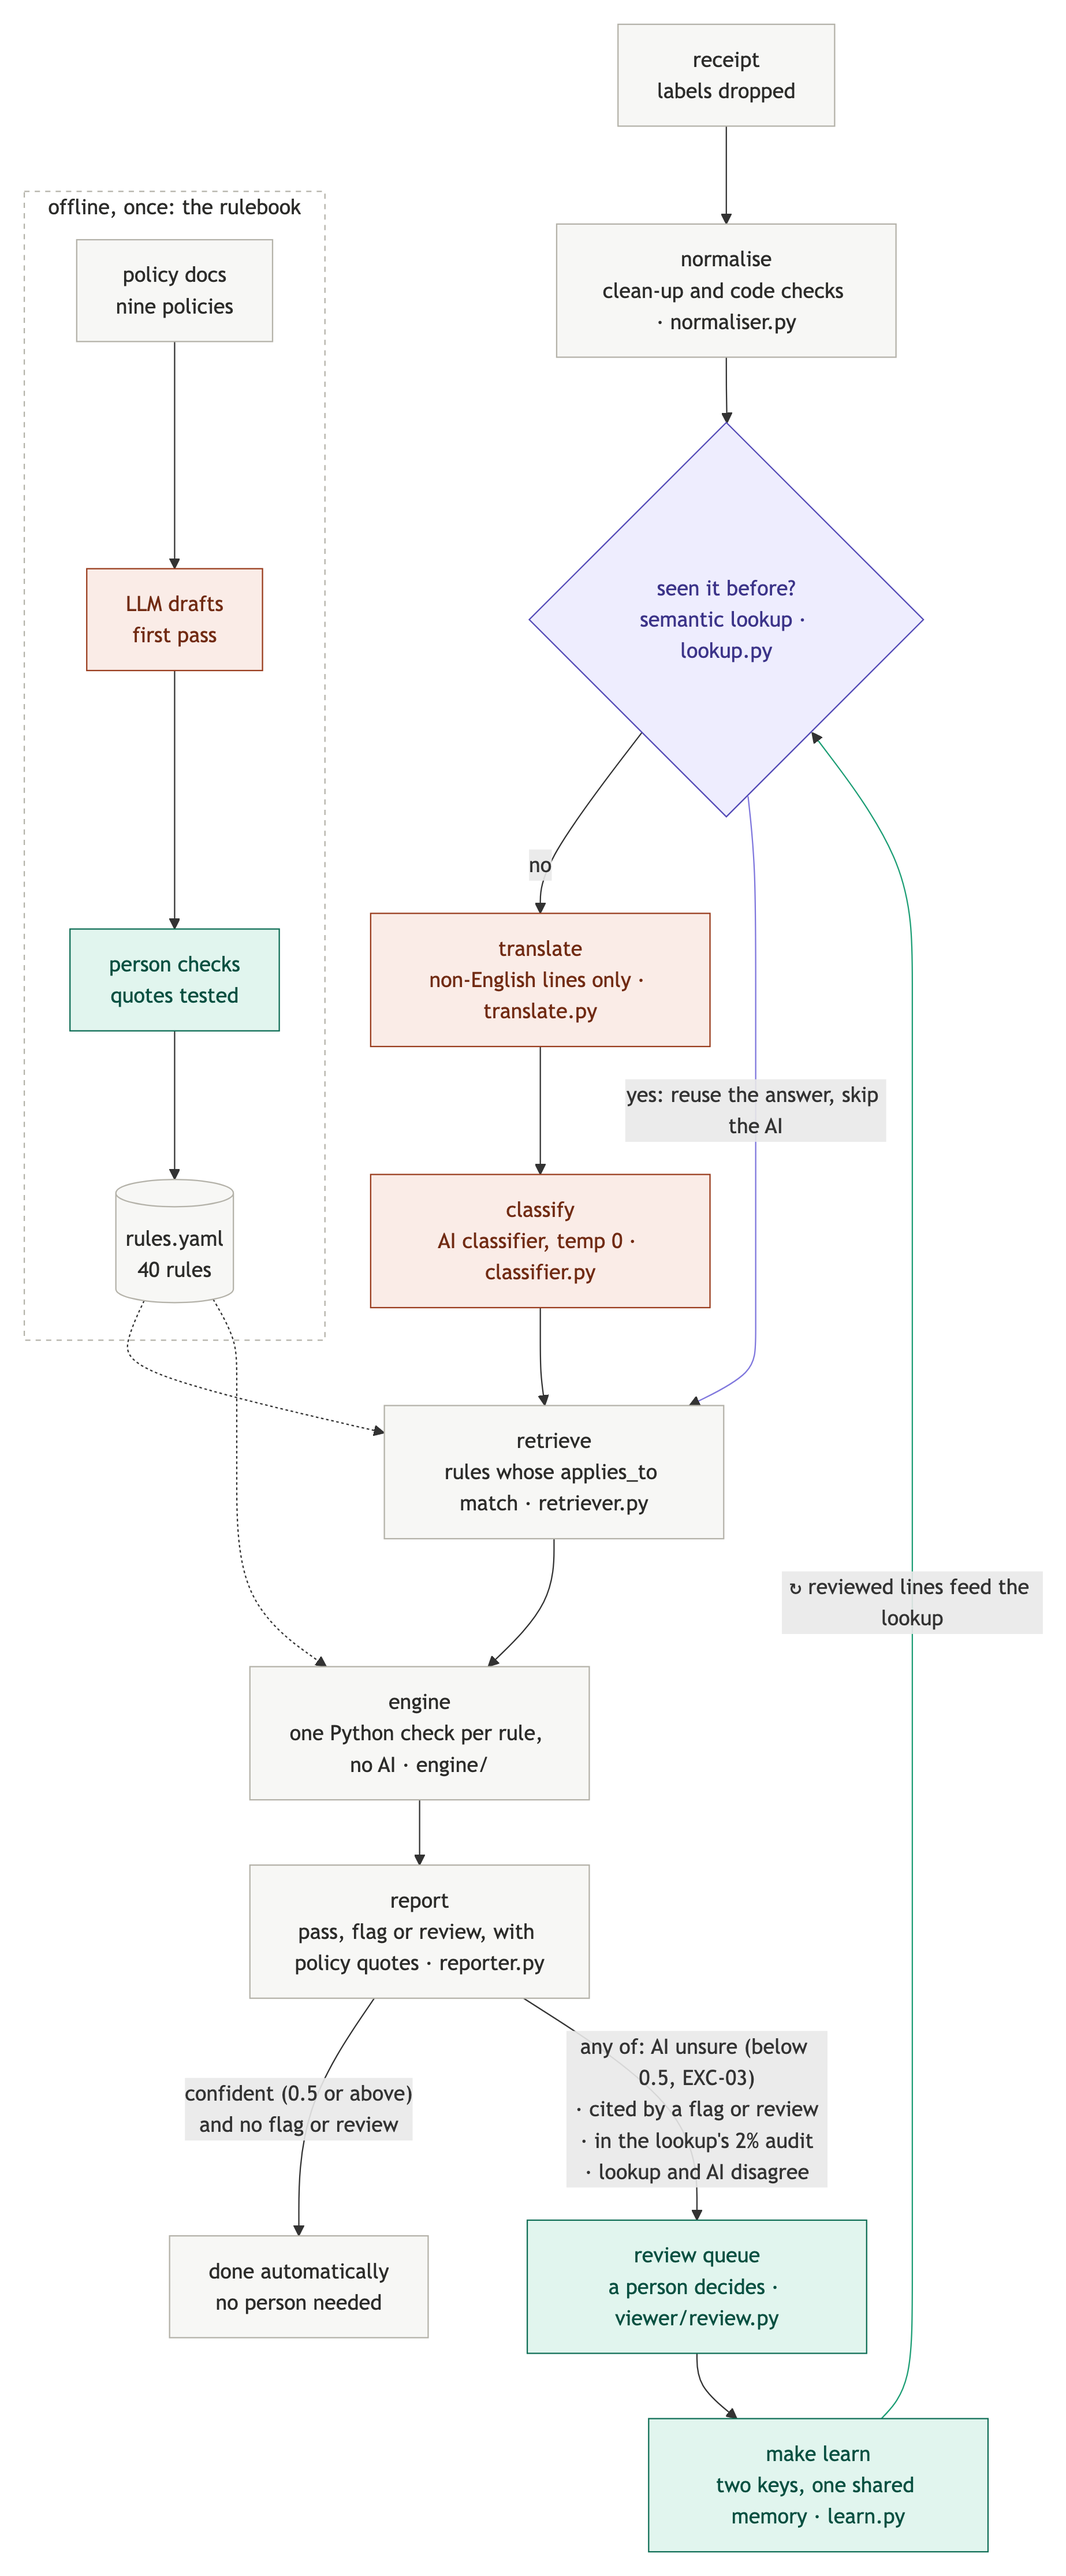
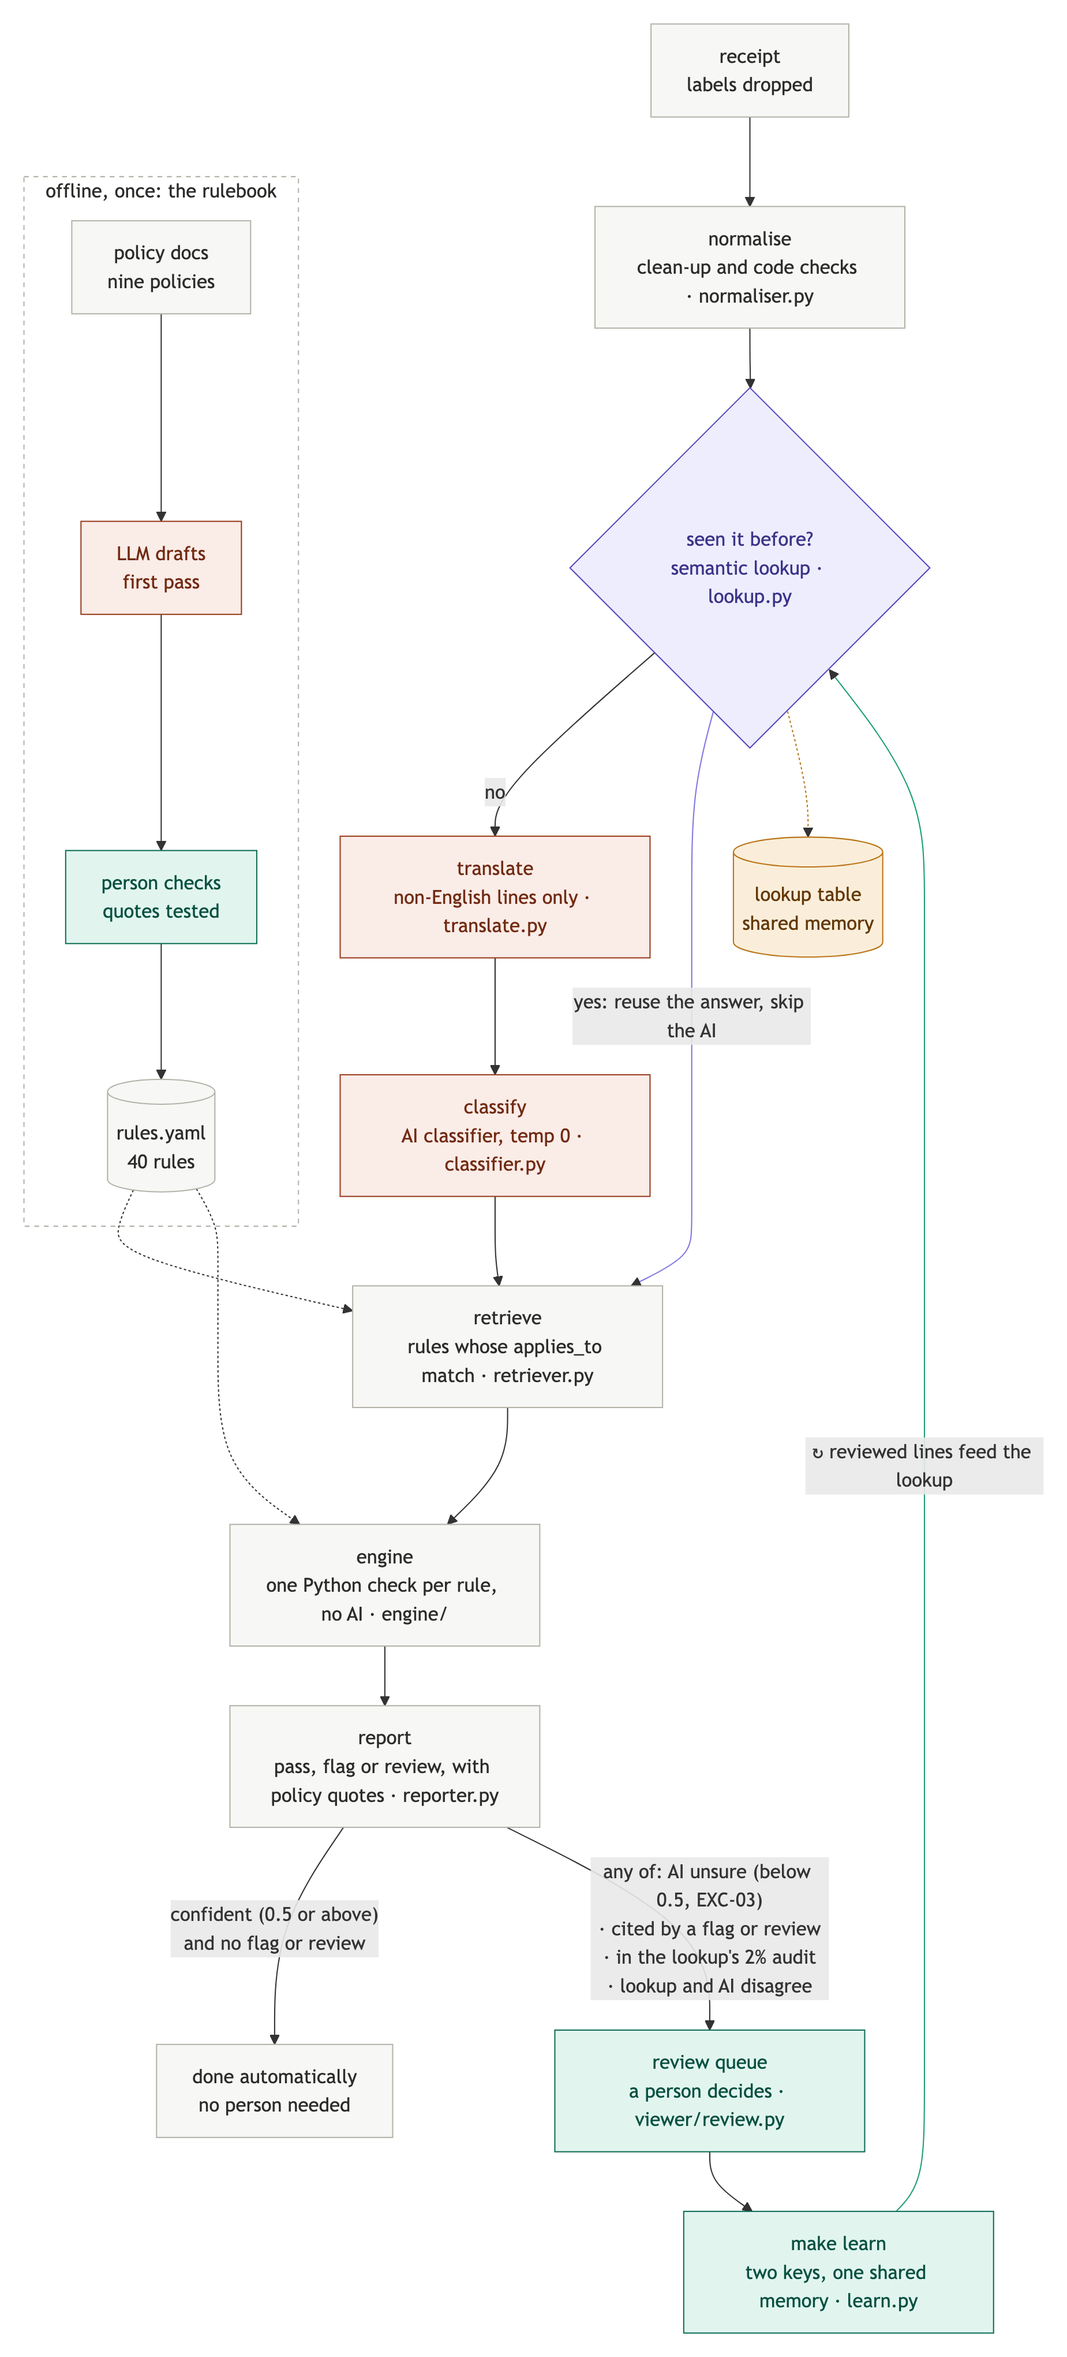
Show the lookup table beside the lookup in the architecture diagram
A small amber table icon, "Lookup table / shared memory", now sits right
of "Seen it before?", joined by a dotted line, so the lookup reads as a
table it consults. The same node is in the README's Mermaid diagram, and
both PNGs are rendered again.

diff --git a/docs/diagrams/architecture.html b/docs/diagrams/architecture.html
@@ -13,6 +13,17 @@
 <g><rect class="box" x="120" y="160" width="240" height="56" rx="8" stroke-width="0.5"/><text class="th" x="240" y="179" text-anchor="middle" dominant-baseline="central">Receipt</text><text class="ts" x="240" y="199" text-anchor="middle" dominant-baseline="central">Labels dropped</text></g>
 <g><rect class="box" x="120" y="246" width="240" height="56" rx="8" stroke-width="0.5"/><text class="th" x="240" y="265" text-anchor="middle" dominant-baseline="central">Normalise</text><text class="ts" x="240" y="285" text-anchor="middle" dominant-baseline="central">Clean-up and code checks</text></g>
 <g class="c-purple"><rect x="120" y="332" width="240" height="56" rx="8" stroke-width="0.5"/><text class="th" x="240" y="351" text-anchor="middle" dominant-baseline="central">Seen it before?</text><text class="ts" x="240" y="371" text-anchor="middle" dominant-baseline="central">Semantic lookup · lookup.py</text></g>
+<line x1="362" y1="360" x2="378" y2="360" stroke="#BA7517" stroke-width="1" stroke-dasharray="2 2"/>
+<g>
+  <rect x="380" y="343" width="42" height="34" rx="4" fill="#FAEEDA" stroke="#BA7517" stroke-width="1"/>
+  <rect x="380" y="343" width="42" height="10" rx="4" fill="#FAC775" stroke="#BA7517" stroke-width="1"/>
+  <rect x="380" y="349" width="42" height="4" fill="#FAC775"/>
+  <line x1="380" y1="364" x2="422" y2="364" stroke="#BA7517" stroke-width="0.75"/>
+  <line x1="380" y1="371" x2="422" y2="371" stroke="#BA7517" stroke-width="0.75"/>
+  <line x1="398" y1="353" x2="398" y2="377" stroke="#BA7517" stroke-width="0.75"/>
+  <text x="430" y="355" dominant-baseline="central" style="font-size:12px;font-weight:500;fill:#633806">Lookup table</text>
+  <text x="430" y="370" dominant-baseline="central" style="font-size:11px;fill:#854F0B">shared memory</text>
+</g>
 <g class="c-coral"><rect x="120" y="440" width="240" height="56" rx="8" stroke-width="0.5"/><text class="th" x="240" y="459" text-anchor="middle" dominant-baseline="central">Translate</text><text class="ts" x="240" y="479" text-anchor="middle" dominant-baseline="central">Non-English lines only</text></g>
 <g class="c-coral"><rect x="120" y="526" width="240" height="56" rx="8" stroke-width="0.5"/><text class="th" x="240" y="545" text-anchor="middle" dominant-baseline="central">Classify</text><text class="ts" x="240" y="565" text-anchor="middle" dominant-baseline="central">AI classifier, temp 0</text></g>
 <g><rect class="box" x="120" y="634" width="240" height="56" rx="8" stroke-width="0.5"/><text class="th" x="240" y="653" text-anchor="middle" dominant-baseline="central">Retrieve</text><text class="ts" x="240" y="673" text-anchor="middle" dominant-baseline="central">Rules whose applies_to match</text></g>

diff --git a/README.md b/README.md
@@ -31,19 +31,23 @@ flowchart TB
     end
     Y -.-> P
     Y -.-> E
+    L -.- LT[("lookup table<br/>shared memory")]
     classDef default fill:#F7F7F5,stroke:#B4B2A9,color:#2C2C2A
     classDef ai fill:#FAECE7,stroke:#993C1D,color:#712B13
     classDef lookup fill:#EEEDFE,stroke:#534AB7,color:#3C3489
     classDef people fill:#E1F5EE,stroke:#0F6E56,color:#085041
+    classDef table fill:#FAEEDA,stroke:#BA7517,color:#633806
     class Y1,T,K ai
     class L lookup
     class Y2,Q,G people
+    class LT table
     style offline fill:#FFFFFF,stroke:#B4B2A9,stroke-dasharray:4 4,color:#2C2C2A
     linkStyle 5 stroke:#7F77DD
     linkStyle 11 stroke:#1D9E75
+    linkStyle 17 stroke:#BA7517
 ```
 
-Coral: the model. Purple: the lookup. Teal: people. Dotted: the rulebook feeds retrieval and the engine. As an image: [docs/architecture-clean.png](docs/architecture-clean.png) (or the Mermaid render, [docs/architecture.png](docs/architecture.png)).
+Coral: the model. Purple: the lookup, with its lookup table in amber. Teal: people. Dotted: the rulebook feeds retrieval and the engine. As an image: [docs/architecture-clean.png](docs/architecture-clean.png) (or the Mermaid render, [docs/architecture.png](docs/architecture.png)).
 
 Each component is its own module in [`validator/`](validator); only translation and classification call the model, and every call is cached. A local, semi-deterministic semantic lookup ([`lookup.py`](validator/lookup.py)) decides a line first only when every word of it matches, by meaning, a line a person has reviewed, and no restricted line is close. It never decides a restricted category: anything it is unsure of goes to the model, and the model's unsure lines go to a human. On a blind set of look-alike traps it let none through. On the 32 receipts it decides 1 line (a cold start: its memory holds CORD's Indonesian café lines), and every result is the same as with the model alone. The model's answer is kept as a second opinion, `make lookup-report` checks it, and `mode: shadow` turns it off. After the report, a line needs no person if it is confident and behind no flag; it goes to the review queue (the viewer's Review page) if the model was unsure (EXC-03), a flag or review cites it, it is in the 2% audit of the lookup's decisions, or the lookup and the model disagree. People's decisions there fill the lookup's memory through `make learn` (two keys): one memory shared by every client, since what an item is doesn't depend on the company. Its design and tests are experiments 6–12 ([DECISIONS.md, section 12](DECISIONS.md)).
 
